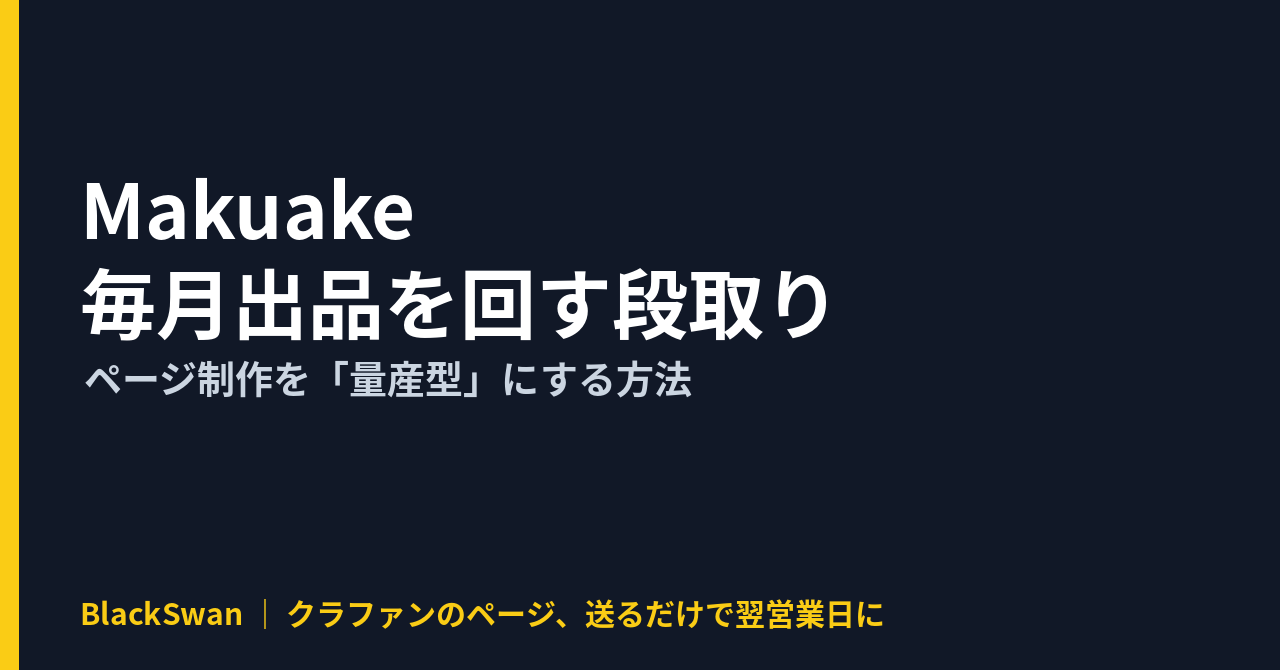
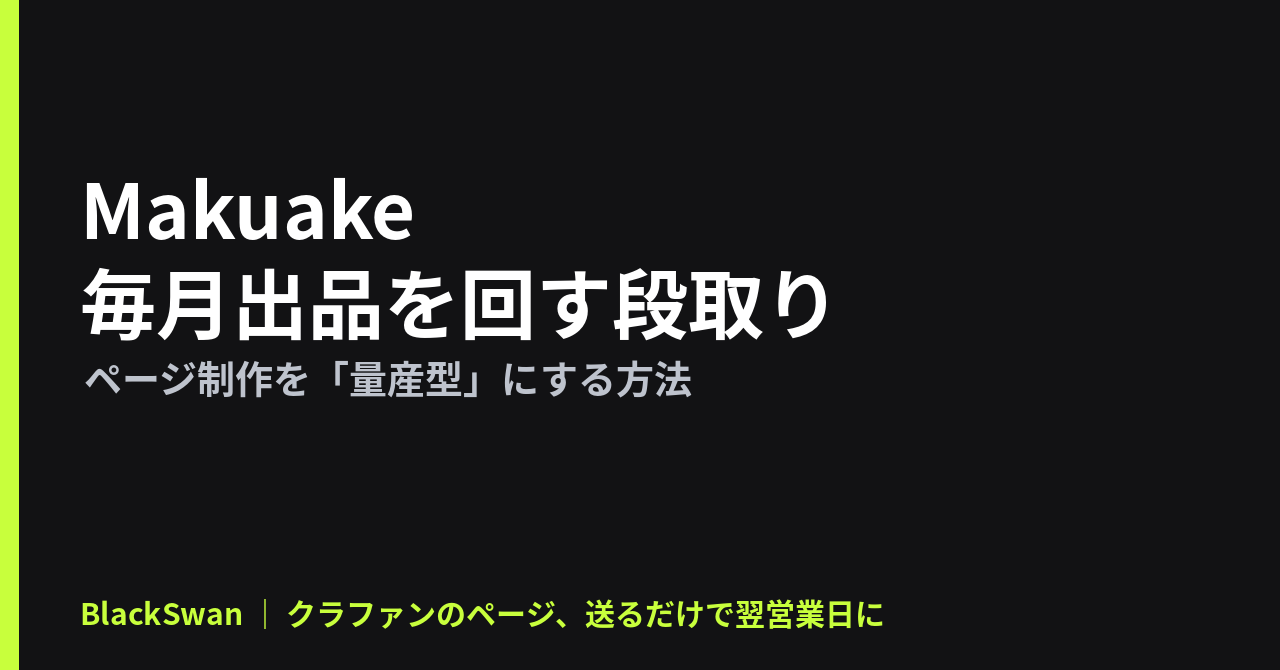
note: 図の生成スクリプト・CTA画像素材・初回記事に図を追加
Claude-Session: https://claude.ai/code/session_01STwXBqkgnV3YToFdTMoDjG

Changed region(s): [[0.0, 0.0, 0.0312, 1.0], [0.2188, 0.8955, 0.6875, 0.9552], [0.0625, 0.8955, 0.1875, 0.9552]]

diff --git a/scripts/figures.py b/scripts/figures.py
@@ -1,0 +1,189 @@
+"""
+記事用の図を作る（サイトと同じ黒×ライムの配色）。
+
+    python scripts/figures.py note/<folder>
+
+note/<folder>/figures.yaml を読み、fig-1.png, fig-2.png … と thumbnail.png を書く。
+
+figures.yaml の例:
+  thumbnail:
+    title: Makuake 毎月出品を回す段取り
+    sub: ページ制作を「量産型」にする方法
+  figures:
+    - type: lp_sample          # 縦長LPのサンプル（スライド1枚＝1セクション）
+      title: 11セクションの型
+      sections: [表紙, 課題, 解決, 特徴, 使い方, 仕様, ストーリー, リターン, 流れ, 注意, FAQ]
+    - type: compare            # 2列の比較
+      title: 外注と月額制の違い
+      left:  {head: 単発の外注, rows: ["約10万円/本", "納期2週間〜1か月", "毎回ゼロから説明"]}
+      right: {head: BlackSwan, rows: ["月額7,980円で6件", "翌営業日に初稿", "型を共有して差し替え"]}
+  ※ 金額のようにカンマを含む文は "..." で囲む（YAMLの区切りと混ざるため）
+    - type: steps              # 番号付きの手順
+      title: 毎月回す段取り
+      steps: [商品と価格を決める, 写真を撮る, 型に当てはめる, 画像を書き出す, 申請する]
+    - type: calendar           # 4週間の配分
+      title: 1か月のカレンダー
+      weeks: [商品決定・撮影, ページ制作, 申請・審査対応, 公開・告知]
+"""
+import sys
+import textwrap
+from pathlib import Path
+
+import yaml
+from PIL import Image, ImageDraw, ImageFont
+
+W, H = 1280, 720
+BG = (18, 18, 20)
+PANEL = (32, 33, 38)
+LIME = (200, 255, 60)
+FG = (255, 255, 255)
+SUB = (190, 195, 205)
+FONTS = [
+    "/usr/share/fonts/opentype/noto/NotoSansCJK-Bold.ttc",
+    "/usr/share/fonts/truetype/noto/NotoSansCJK-Bold.ttc",
+    "/System/Library/Fonts/ヒラギノ角ゴシック W6.ttc",
+]
+
+
+def font(size: int):
+    for f in FONTS:
+        if Path(f).exists():
+            try:
+                return ImageFont.truetype(f, size, index=0)
+            except OSError:
+                pass
+    return ImageFont.load_default()
+
+
+def canvas(title: str):
+    img = Image.new("RGB", (W, H), BG)
+    d = ImageDraw.Draw(img)
+    d.rectangle([0, 0, 14, H], fill=LIME)
+    d.text((60, 36), title, font=font(40), fill=FG)
+    d.text((60, H - 48), "BlackSwan ｜ クラファンのページ、送るだけで翌営業日に", font=font(22), fill=LIME)
+    return img, d
+
+
+def fig_lp_sample(spec):
+    img, d = canvas(spec.get("title", "縦長LPの型"))
+    secs = spec.get("sections", [])
+    # 縦長のスマホ風フレームに、セクションを積む
+    x0, y0, w = 90, 110, 300
+    h = H - 110 - 90
+    d.rounded_rectangle([x0, y0, x0 + w, y0 + h], radius=28, fill=PANEL, outline=(70, 72, 80), width=3)
+    n = max(len(secs), 1)
+    sh = (h - 30) / n
+    f = font(int(min(26, sh * 0.6)))
+    for i, s in enumerate(secs):
+        y = y0 + 15 + i * sh
+        col = LIME if i == 0 else (52, 54, 62)
+        d.rounded_rectangle([x0 + 16, y + 3, x0 + w - 16, y + sh - 3], radius=8, fill=col)
+        d.text((x0 + 30, y + (sh - f.size) / 2), f"{i+1:02d}  {s}", font=f, fill=(BG if i == 0 else FG))
+    # 右側: 説明
+    fx = x0 + w + 80
+    d.text((fx, 130), "スライド1枚 ＝ 1セクション", font=font(44), fill=LIME)
+    lines = spec.get("notes", [
+        "上から順に読者の疑問に答える並び",
+        "1枚に伝えることは1つ、文字は大きめ",
+        "翌月は文字と写真を差し替えるだけ",
+        "PNGで書き出して本文に順に置く",
+    ])
+    y = 220
+    for ln in lines:
+        d.ellipse([fx, y + 14, fx + 14, y + 28], fill=LIME)
+        d.text((fx + 32, y), ln, font=font(30), fill=FG)
+        y += 64
+    return img
+
+
+def fig_compare(spec):
+    img, d = canvas(spec.get("title", "比較"))
+    cols = [spec.get("left", {}), spec.get("right", {})]
+    cw = (W - 60 * 2 - 40) // 2
+    for i, c in enumerate(cols):
+        x = 60 + i * (cw + 40)
+        hl = i == 1
+        d.rounded_rectangle([x, 110, x + cw, H - 90], radius=20, fill=PANEL, outline=(LIME if hl else (70, 72, 80)), width=4)
+        d.text((x + 30, 135), c.get("head", ""), font=font(38), fill=(LIME if hl else FG))
+        y = 215
+        for r in c.get("rows", []):
+            for ln in textwrap.wrap(str(r), width=18)[:2]:
+                d.text((x + 34, y), ("✓ " if hl else "・ ") + ln, font=font(30), fill=FG)
+                y += 48
+            y += 14
+    return img
+
+
+def fig_steps(spec):
+    img, d = canvas(spec.get("title", "手順"))
+    steps = spec.get("steps", [])
+    n = max(len(steps), 1)
+    y = 140
+    gap = min(100, (H - 240) // n)
+    for i, s in enumerate(steps):
+        d.ellipse([70, y, 70 + 64, y + 64], fill=LIME)
+        d.text((70 + 32 - 11, y + 12), str(i + 1), font=font(34), fill=BG)
+        d.text((160, y + 12), str(s), font=font(34), fill=FG)
+        if i < n - 1:
+            d.line([102, y + 64, 102, y + gap], fill=(80, 82, 90), width=4)
+        y += gap
+    return img
+
+
+def fig_calendar(spec):
+    img, d = canvas(spec.get("title", "1か月の配分"))
+    weeks = spec.get("weeks", [])
+    cw = (W - 120 - 30 * 3) // 4
+    for i in range(4):
+        x = 60 + i * (cw + 30)
+        d.rounded_rectangle([x, 130, x + cw, H - 100], radius=18, fill=PANEL)
+        d.text((x + 22, 150), f"第{i+1}週", font=font(30), fill=LIME)
+        txt = weeks[i] if i < len(weeks) else ""
+        y = 215
+        for ln in textwrap.wrap(str(txt), width=8)[:6]:
+            d.text((x + 22, y), ln, font=font(28), fill=FG)
+            y += 46
+    return img
+
+
+def thumbnail(spec, out: Path):
+    img = Image.new("RGB", (1280, 670), BG)
+    d = ImageDraw.Draw(img)
+    d.rectangle([0, 0, 18, 670], fill=LIME)
+    title = spec.get("title", "")
+    sub = spec.get("sub", "")
+    lines = textwrap.wrap(title, width=14)[:3]
+    size = 76 if len(lines) <= 2 else 64
+    y = 150
+    for ln in lines:
+        d.text((80, y), ln, font=font(size), fill=FG)
+        y += size + 18
+    if sub:
+        for ln in textwrap.wrap(sub, width=26)[:2]:
+            d.text((84, y + 10), ln, font=font(38), fill=SUB)
+            y += 50
+    d.text((80, 590), "BlackSwan ｜ クラファンのページ、送るだけで翌営業日に", font=font(30), fill=LIME)
+    img.save(out)
+
+
+RENDER = {"lp_sample": fig_lp_sample, "compare": fig_compare, "steps": fig_steps, "calendar": fig_calendar}
+
+
+def main() -> None:
+    folder = Path(sys.argv[1])
+    spec = yaml.safe_load((folder / "figures.yaml").read_text(encoding="utf-8")) or {}
+    if "thumbnail" in spec:
+        thumbnail(spec["thumbnail"], folder / "thumbnail.png")
+        print(folder / "thumbnail.png")
+    for i, fs in enumerate(spec.get("figures", []), 1):
+        fn = RENDER.get(fs.get("type"))
+        if not fn:
+            print(f"unknown type: {fs.get('type')}", file=sys.stderr)
+            continue
+        out = folder / f"fig-{i}.png"
+        fn(fs).save(out)
+        print(out)
+
+
+if __name__ == "__main__":
+    main()

diff --git a/content/patterns/note_article.md b/content/patterns/note_article.md
@@ -7,8 +7,10 @@
 - `note/<YYYY-MM-DD>-<slug>/article.md` に保存する。
 - 1行目は `# 題名`。2行目以降が本文。
 - 本文はプレーンな文章と `## 見出し`、箇条書き、太字（`**`）だけを使う。表・コードブロック・脚注は使わない（noteに貼ると崩れる）。
-- 見出し画像は `python scripts/thumbnail.py note/<folder>` で作る（`pip install pillow` が要る）。できた `thumbnail.png` を開いて、文字のはみ出し・切れがないか確かめる。はみ出すなら題名を短くする。
-- 本文中の図は、必要なときだけ。入れるなら `fig-1.png` をフォルダに置き、本文の入れたい位置に1行で `（ここに fig-1.png）` と書く。
+- **図は必ず3枚以上入れる**（視覚で伝える記事にする）。`note/<folder>/figures.yaml` を書き、`python scripts/figures.py note/<folder>` で `thumbnail.png` と `fig-1.png`… を作る（`pip install pyyaml pillow` が要る）。型は `lp_sample`（縦長LPのサンプル）、`compare`（2列比較）、`steps`（手順）、`calendar`（1か月の配分）。手本は `note/2026-10-22-makuake-monthly-launch-flow/figures.yaml`。
+- できたPNGを1枚ずつ開いて、文字のはみ出し・重なり・切れがないか確かめる。はみ出すなら文言を短くして作り直す。
+- 本文の入れたい位置に1行で `（ここに fig-1.png）` と書く。見出しの直後か、手順の説明の前が収まりがよい。
+- **CTAの画像（固定）**: 共有素材 `content/assets/` にサイトの切り抜きがある。CTAの冒頭に `（ここに cta-hero.png）`、料金の説明の後に `（ここに cta-price.png）` を置く（投稿時に自動で添付される。フォルダにコピーしなくてよい）。他に `cta-demo.png`（申し込みから納品まで）、`cta-what.png`（届くもの）、`cta-flow.png`（流れ）、`cta-close.png`（締め）も使える。記事の内容に合うものを1〜2枚、本文中でも使ってよい。
 
 ## 題名（SEO）
 
@@ -23,7 +25,7 @@
 3. **自分でやる手順**: 番号付きで、読者が今日できるレベルまで具体的に。ここが記事の価値。手抜きしない。
 4. **「スライド1枚＝1セクション」の例**: 手順のどこかで、ページを「表紙・課題・解決・特徴・使い方・仕様・ストーリー・リターン・流れ・注意・FAQ」のようにスライド1枚ずつに分けて作ると速い、という作り方を1回だけ自然に出す（BlackSwan の作り方と同じ）。
 5. **時間と費用の目安**: 自分でやると何時間か、外注すると相場いくら・納期どれくらいか（出典付き）。
-6. **CTA（固定文、下記）**
+6. **CTA（固定文、下記。画像2枚込み）**
 7. **関連する検索語**: 最後に、関連記事になりそうな検索語を2〜3個、文中で自然に触れる（内部リンクの種）。
 
 長さ: 2,500〜4,000字。
@@ -31,10 +33,14 @@
 ## CTA（固定。記事の最後に必ず置く）
 
 ---
+（ここに cta-hero.png）
+
 **毎月出すなら、作る作業は手放していい**
 
 ページ制作を外注すると、相場は約10万円・納期1か月です（ココナラの個人出品・制作会社の公開料金、2026年10月時点）。
 月に1回以上クラファンや先行予約を出すなら、月額7,980円で6件、翌営業日にスライドで届く BlackSwan のほうが、1件あたり1,330円で済みます。文字や色、順番は自分で直せます。
+
+（ここに cta-price.png）
 
 まずは15分の無料ヒアリングで、合うかどうかだけ確かめてください。
 → https://ssskobj-dev.github.io/blackswan-site/

diff --git a/CLAUDE.md b/CLAUDE.md
@@ -24,7 +24,7 @@
 2. `content/patterns/note_article.md` の型と規則に従って書く。保存先は `note/<今日の日付>-<slug>/article.md`（日付は日本時間 YYYY-MM-DD、slug は topics.yaml の `slug`）。同じ slug のフォルダが既にあれば、その話題は飛ばして次の todo を選ぶ。
 3. 検索語（`keyword`）を題名の前半に入れる。本文は読者が自分でできる手順を本気で書く。薄い記事を出すくらいなら、書かずに報告する。
 4. 相場や料金の数字は、上の「サービスの事実」の範囲だけ。外部の数字を使うときは、自分でその資料を開いて確かめ、出典のリンクを本文に付ける。確かめられなければ書かない。
-5. `pip install pillow` のあと `python scripts/thumbnail.py note/<フォルダ>` で見出し画像を作り、できた `thumbnail.png` を開いて文字のはみ出し・切れがないか確かめる（はみ出すなら題名を短くして作り直す）。
+5. `pip install pyyaml pillow` のあと、`note/<フォルダ>/figures.yaml` を書き（手本: `note/2026-10-22-makuake-monthly-launch-flow/figures.yaml`）、`python scripts/figures.py note/<フォルダ>` で見出し画像と図（3枚以上）を作る。できたPNGを1枚ずつ開いて、文字のはみ出し・重なり・切れがないか確かめる。本文の該当位置に `（ここに fig-1.png）` を置く。CTAの画像 `（ここに cta-hero.png）` `（ここに cta-price.png）` も型どおりに置く。
 6. `content/topics.yaml` の該当する行を `status: done` にし、`published_path` に記事のパスを書く。
 7. `main` に直接コミットしてプッシュする（`note/` と `content/topics.yaml` 以外は変更しない）。コミットメッセージは `note: <slug>`。
 8. 報告は短く: 題名、パス、残りの todo の数。
